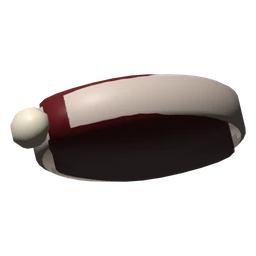
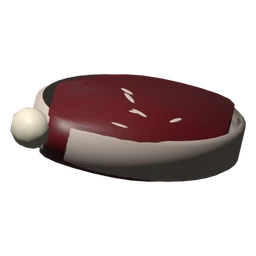
#166 Rucksackbilder: feste Bilder für alle 23 Gegenstände, die bisher zur Laufzeit gezeichnet wurden
- fabrik/rucksackbilder.py: findet Gegenstände ohne festes Bild (Laufzeit-Zeichen kristall/pergament/trank/trankrot
  oder fehlende Datei), nimmt vorhandene symbole/<id>.webp, sonst <id>.glb oder fabrik/vorlagen/rucksackbilder.json,
  rendert fehlende (Standard kipp -25), schreibt fabrik/vorlagen/rucksackbilder_pfade.json; --pruefen für neue Gegenstände
- neu gerendert: splitter, geweihter_splitter (golden mit Schein), kleiner_heiltrank, heiltrank, pergament,
  hinweispergament, rezeptheft, tempelabschrift, wildbret, wildbretbraten; 13 vorhandene Bilder zugeordnet

Claude-Session: https://claude.ai/code/session_01TxcDgCBymSgCktFtp5hokG

Changed region(s): [[0.0312, 0.2812, 0.9688, 0.7188], [0.0312, 0.4375, 0.0625, 0.4688]]

diff --git a/fabrik/rucksackbilder.py b/fabrik/rucksackbilder.py
@@ -8,7 +8,7 @@
 3. Für jeden davon in dieser Reihenfolge:
    a) Eintrag in fabrik/vorlagen/rucksackbilder.json: {"bild": vorhandenes Bild} oder {"glb": Modell, "kipp", "dreh", "rolle", "ton", "schein", "ziel"}
    b) vorhandenes Bild img/objekte3d/**/symbole/<id>.webp
-   c) Modell img/objekte3d/**/<id>.glb → Bild daneben in symbole/<id>.webp (fabrik/symbol.py, Standard kipp 25, dreh 30)
+   c) Modell img/objekte3d/**/<id>.glb → Bild daneben in symbole/<id>.webp (fabrik/symbol.py, Standard kipp -25 = schräg von oben, dreh 30)
    Gerenderte Bilder: 256 × 256, durchsichtig, Stil der Rucksackbilder. ton=<Grad> dreht den Farbton, schein=<#rrggbb> legt einen weichen Lichtschein dahinter.
 4. Schreibt fabrik/vorlagen/rucksackbilder_pfade.json ({id: bild}) – Systeme trägt die Pfade ein (bild setzen, Laufzeit-„symbol“ entfernen;
    BILDER_AUS_FABRIK greift nur, wenn weder bild noch symbol gesetzt sind) – und meldet, was offen bleibt.
@@ -42,6 +42,7 @@ modelle = {os.path.basename(p)[:-4]: p for p in glob.glob(os.path.join(W, "img",
 rel = lambda p: os.path.relpath(p, W)
 def rendern(id_, glb, e):
     ziel = os.path.join(W, e["ziel"]) if e.get("ziel") else os.path.join(os.path.dirname(glb), "symbole", id_ + ".webp"); os.makedirs(os.path.dirname(ziel), exist_ok=True)
+    e = {"kipp": -25, **e}                                                                        # symbol.py: negatives kipp = schräg von oben (positives zeigt die Unterseite)
     arg = [f"{k}={e[k]}" for k in ("kipp", "dreh", "rolle", "matt", "fuellen") if k in e]
     subprocess.run([BL, os.path.join(W, "fabrik", "symbol.py"), "--", glb, ziel, *arg], capture_output=True, check=True)
     if "ton" in e or "schein" in e:                                                               # nachträglich: Farbton drehen, Lichtschein dahinter
